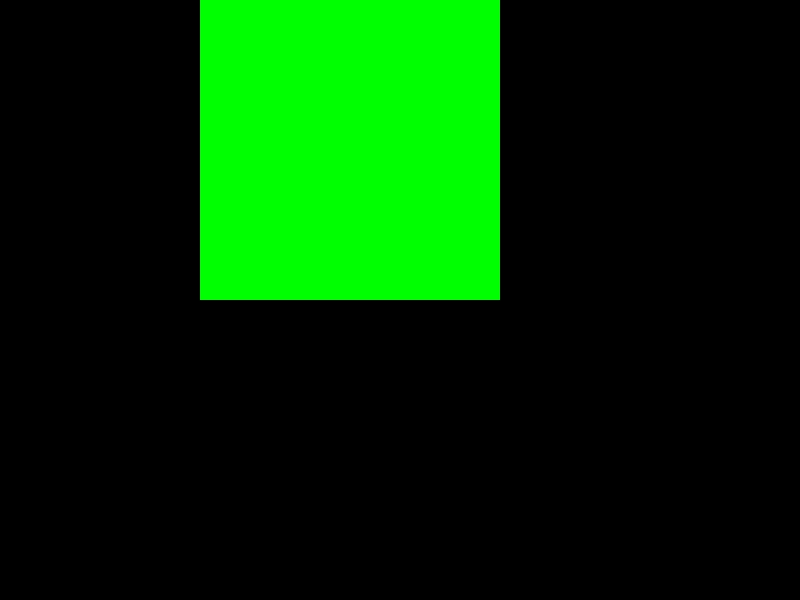
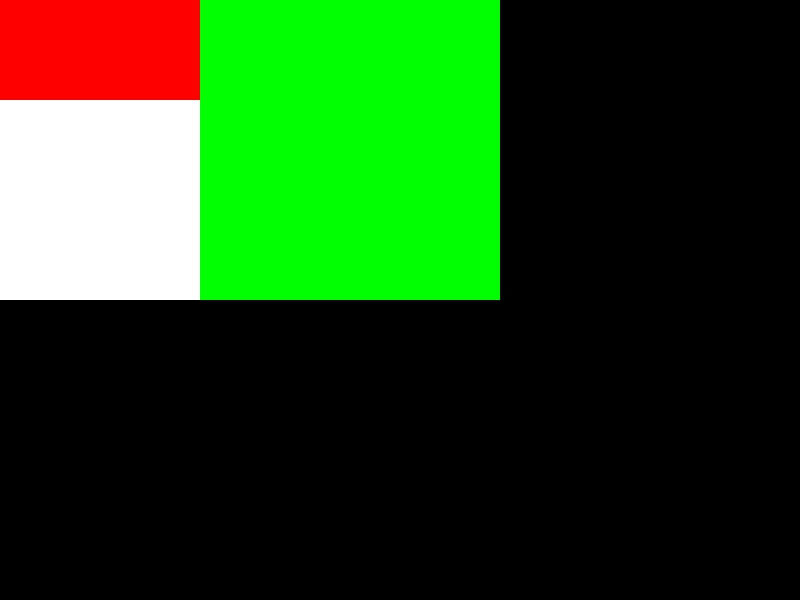
绘制DOM

Changed region(s): [[0.0, 0.0, 0.25, 0.51]]

diff --git a/week07/toy_brower/client.js b/week07/toy_brower/client.js
@@ -209,7 +209,7 @@ void async function() {
 
     // render成图片
     let viewport = images(800, 600);
-    let divDom = dom.children[0].children[2].children[1].children[3];
+    let divDom = dom.children[0].children[2].children[1];
     render(viewport, divDom)
     viewport.save("viewport.jpg");
     console.log('-------dom---------');

diff --git a/week07/toy_brower/render.js b/week07/toy_brower/render.js
@@ -11,5 +11,10 @@ function render(viewport, element) {
             viewport.draw(img, element.style.left || 0, element.style.top || 0)
         }
     }
+    if (element.children) {
+        for (let child of element.children) {
+            render(viewport, child)
+        }
+    }
 }
 module.exports = render;
